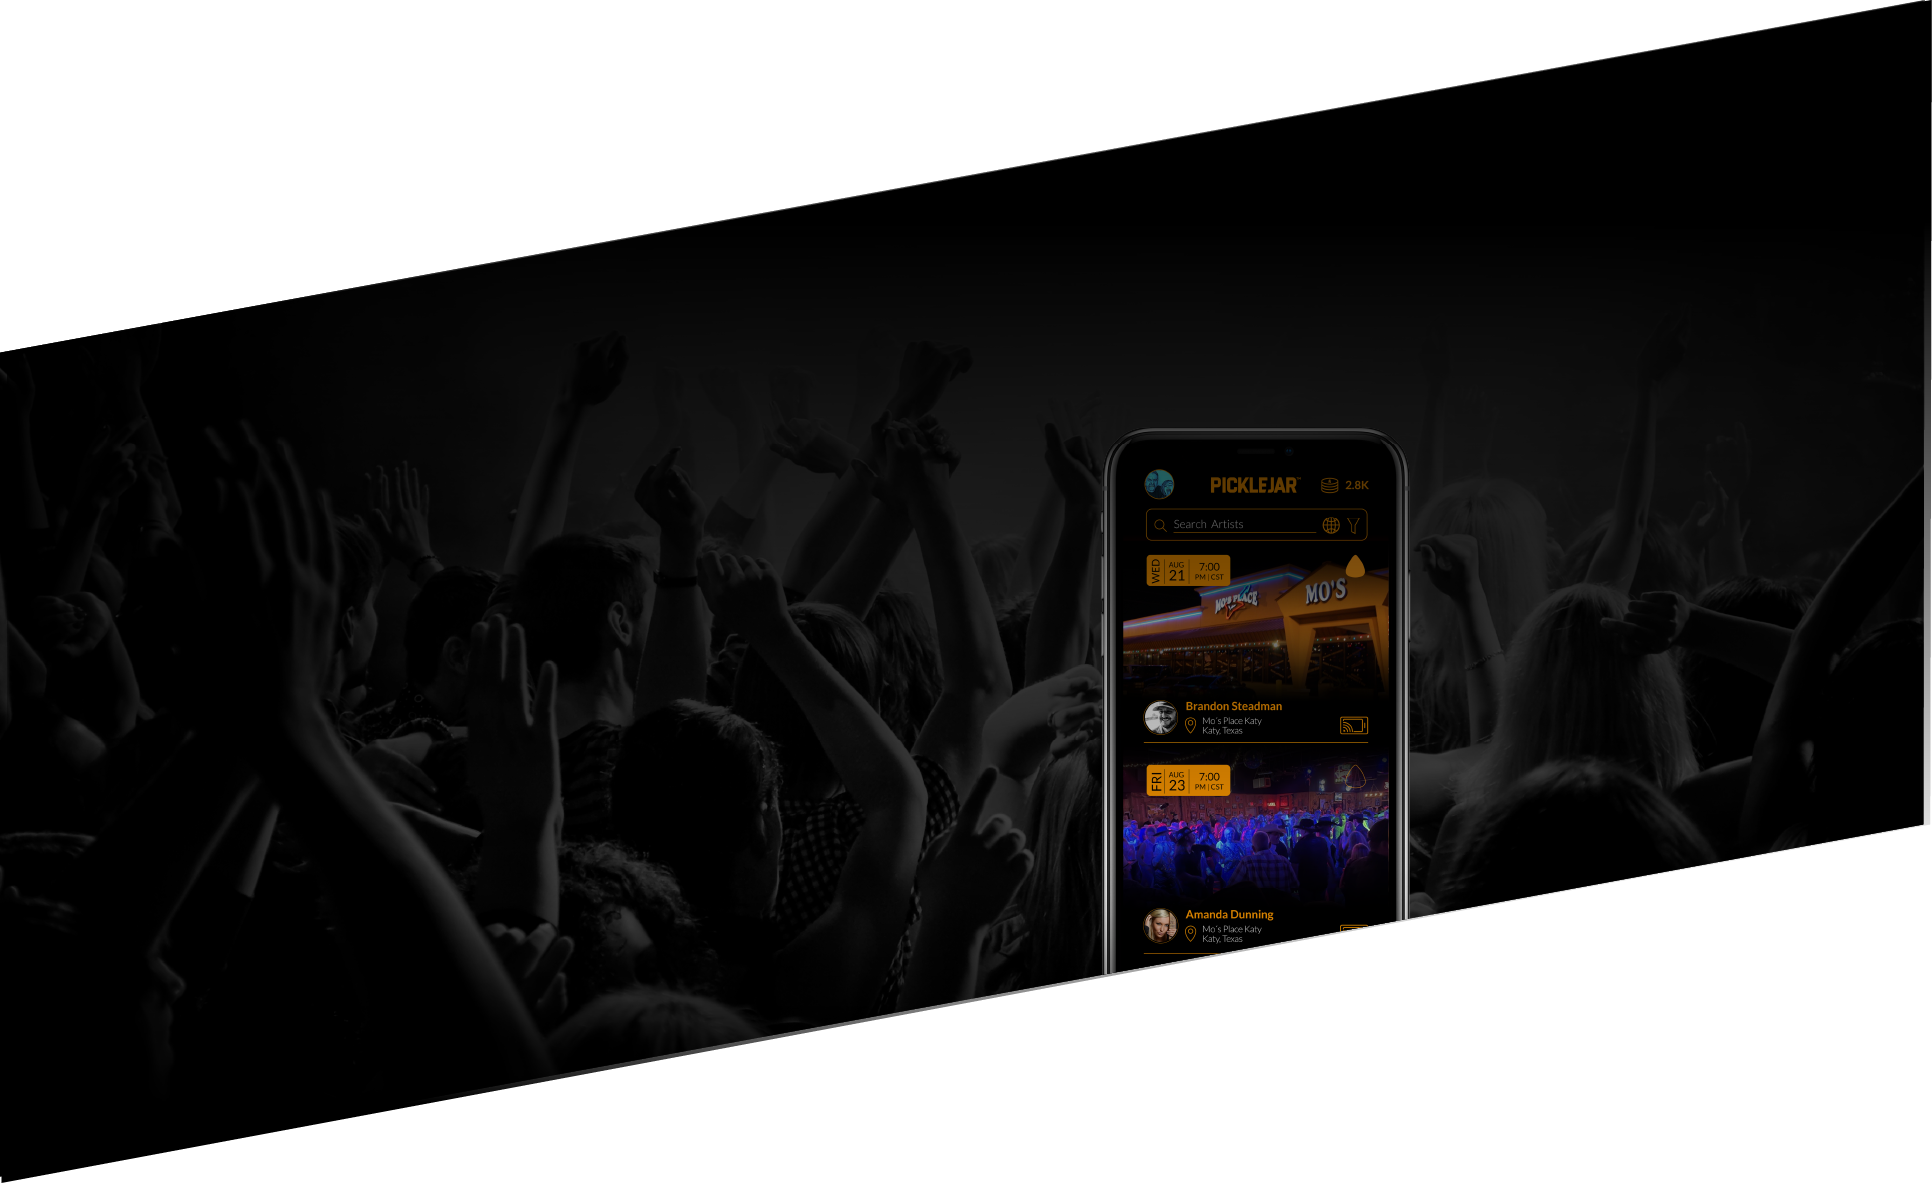
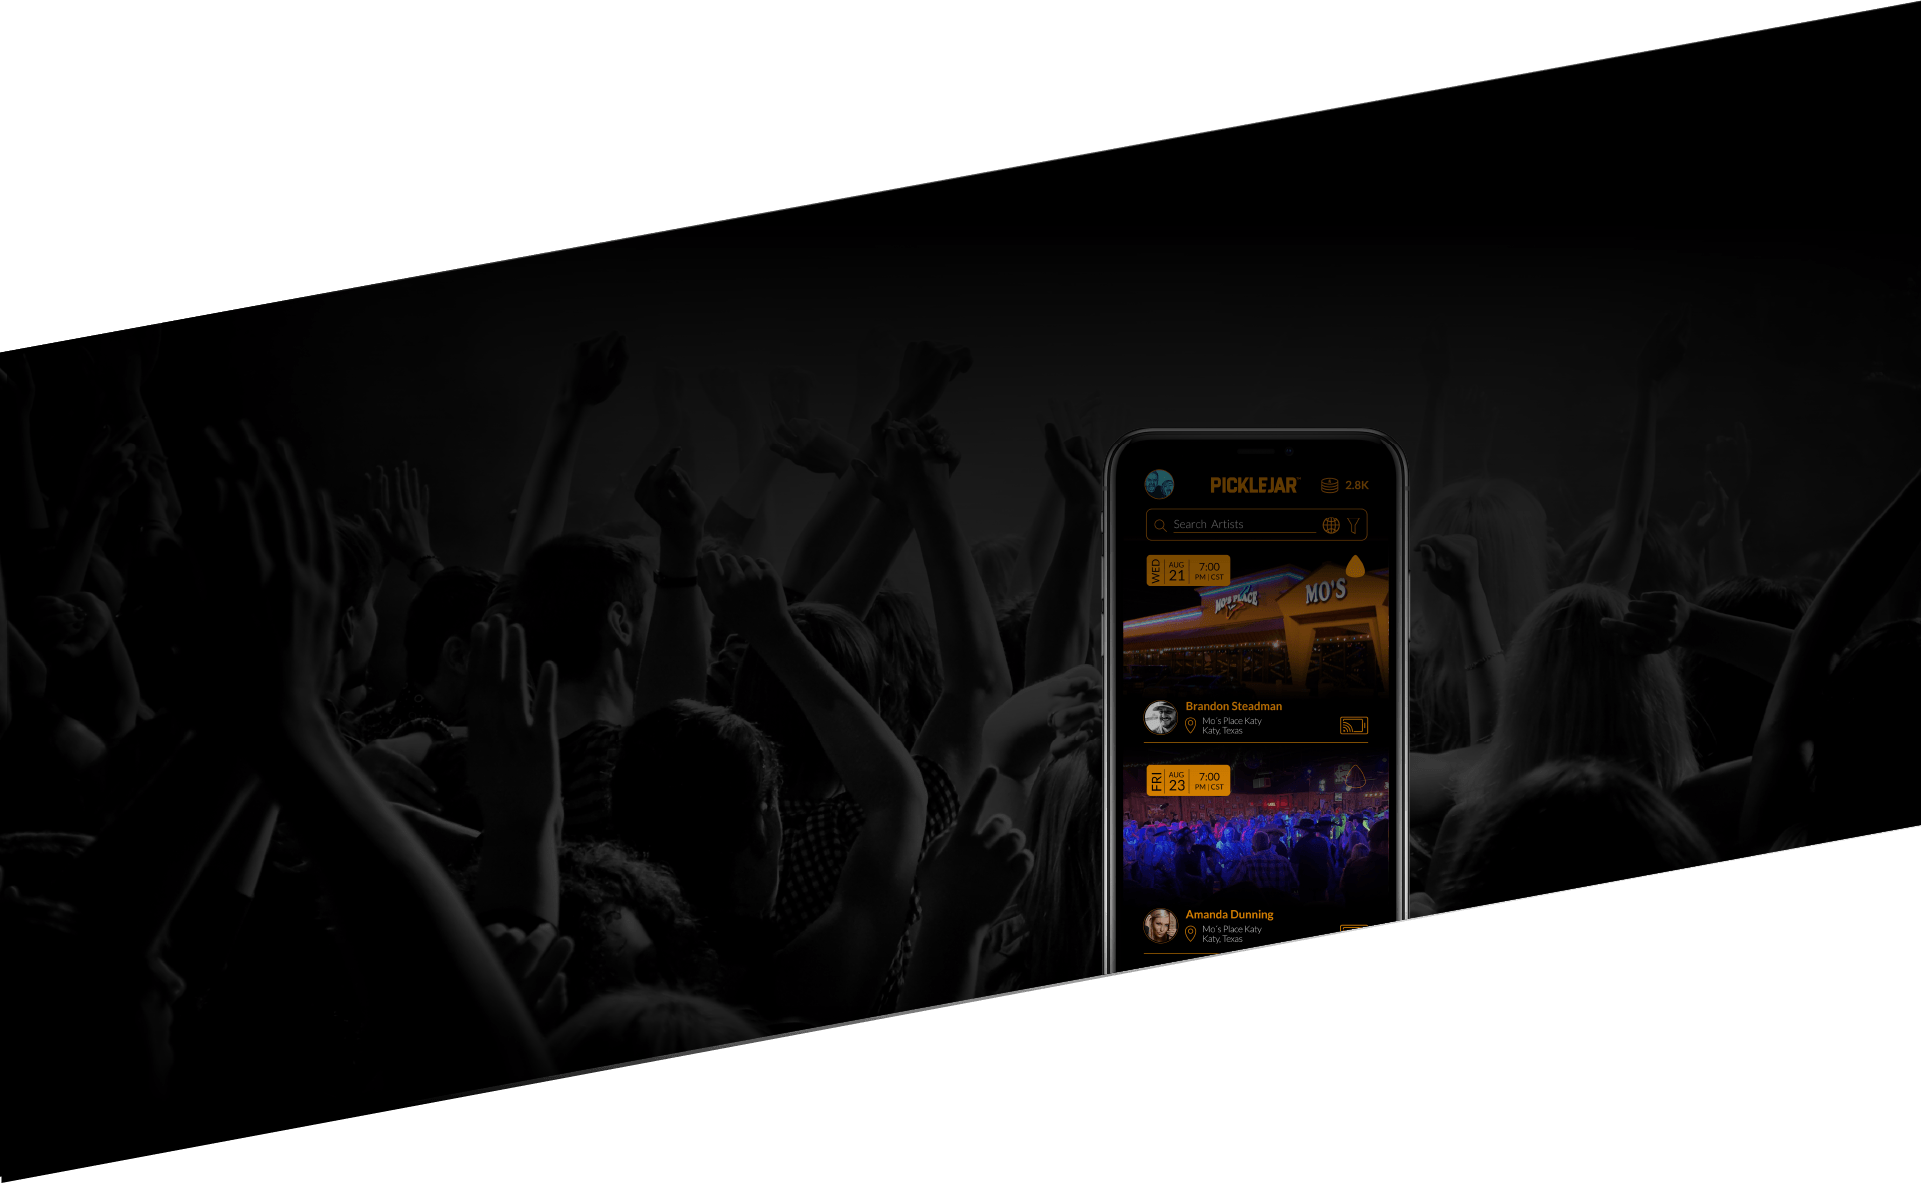
fix

diff --git a/public/index.html b/public/index.html
@@ -42,80 +42,11 @@
         <div class="app__background"></div>
         <div class="app__wrapper container">
             <svg xmlns="http://www.w3.org/2000/svg" viewBox="0 0 899.67 570.98" class="app__icon">
-                <defs>
-                    <style>
-                        .cls-1,
-                        .cls-10 {
-                            fill: #fff;
-                        }
-
-                        .cls-2 {
-                            fill: #f8a340;
-                        }
-
-                        .cls-3 {
-                            font-size: 53.72px;
-                            font-family: Flintstock-RegularOblique, Flintstock;
-                        }
-
-                        .cls-10,
-                        .cls-11,
-                        .cls-12,
-                        .cls-3,
-                        .cls-9 {
-                            font-style: oblique;
-                        }
-
-                        .cls-4 {
-                            letter-spacing: -0.02em;
-                        }
-
-                        .cls-5 {
-                            letter-spacing: -0.04em;
-                        }
-
-                        .cls-6 {
-                            letter-spacing: -0.02em;
-                        }
-
-                        .cls-7 {
-                            letter-spacing: 0em;
-                        }
-
-                        .cls-8 {
-                            letter-spacing: -0.01em;
-                        }
-
-                        .cls-10,
-                        .cls-11,
-                        .cls-9 {
-                            font-size: 264.27px;
-                        }
-
-                        .cls-10,
-                        .cls-11,
-                        .cls-12,
-                        .cls-9 {
-                            font-family: Flintstock-RoundOblique, Flintstock;
-                        }
-
-                        .cls-11 {
-                            fill: none;
-                            stroke: #000;
-                            stroke-miterlimit: 10;
-                            stroke-width: 3.52px;
-                        }
-
-                        .cls-12 {
-                            font-size: 135.92px;
-                        }
-                    </style>
-                </defs>
-                <path class="cls-1"
+                <path fill="#ffffff"
                     d="M411.14,0H76.6A76.83,76.83,0,0,0,0,76.6V229.47a76.83,76.83,0,0,0,76.6,76.6H197.29c6.92,18.46,14.58,52.1-6.24,80.17,0,0,96-17.35,137.73-80.17h82.36a76.82,76.82,0,0,0,76.59-76.6V76.6A76.82,76.82,0,0,0,411.14,0Z" />
-                <path class="cls-2"
+                <path class="cls-2" fill="#f8a340"
                     d="M381.75,86.85h424.5c51.38,0,93.42,42,93.42,93.42V377.06c0,51.38-42,93.42-93.42,93.42H652.38c-8.67,23.14-18.28,65.31,7.83,100.5,0,0-120.34-21.76-172.64-100.5H381.75c-51.38,0-93.42-42-93.42-93.42V180.27C288.33,128.89,330.37,86.85,381.75,86.85Z" />
-                <text class="cls-3" transform="translate(412.53 393.71)">
+                <text class="app__title" transform="translate(412.53 393.71)">
                     <tspan class="cls-4" x="13.43" y="0">f</tspan>
                     <tspan x="37.01" y="0">or eve</tspan>
                     <tspan class="cls-5" x="187" y="0">r</tspan>
@@ -126,10 +57,14 @@
                     <tspan x="386.62" y="0">t </tspan>
                     <tspan class="cls-5" x="0" y="52.11">y</tspan>
                     <tspan x="30.46" y="52.11">ou bring on! </tspan>
-                </text><text class="cls-9" transform="translate(337.49 339.89)">$25</text><text class="cls-10"
-                    transform="translate(323.43 328.91)">$25</text><text class="cls-11"
-                    transform="translate(317.06 322.65)">$25</text><text class="cls-12"
-                    transform="translate(60.19 167.17)">EARN</text>
+                </text>
+                <text class="app__text app__text--1" font-size="264.27px"
+                    transform="translate(337.49 339.89)">$25</text>
+                <text class="app__text app__text--2" font-size="264.27px" fill="#ffffff"
+                    transform="translate(323.43 328.91)">$25</text>
+                <text class="app__text app__text--3" font-size="264.27px"
+                    transform="translate(317.06 322.65)">$25</text>
+                <text class="app__text app__text--4" transform="translate(60.19 167.17)">EARN</text>
             </svg>
             <img src="./images/app/phone.png" alt="phone" class="app__image">
         </div>

diff --git a/public/scss/components/app.scss b/public/scss/components/app.scss
@@ -20,8 +20,7 @@
 
     &__background {
         width: 100%;
-        height: 1150px;
-        max-width: 1950px;
+        height: 1173px;
         position: absolute;
 
         background-image: url(../images/app/crowd-bg.png);
@@ -48,6 +47,26 @@
     &__icon {
         width: 66%;
         margin-top: -347px;
+    }
+
+    &__title {
+        font-family: $font-fs-o;
+        font-size: 53.72px;
+    }
+
+    &__text {
+        font-family: $font-fs-rd-o;
+    }
+
+    &__text--4 {
+        font-size: 135.92px;
+    }
+
+    &__text--3 {
+        fill: none;
+        stroke: #000;
+        stroke-miterlimit: 10;
+        stroke-width: 3.52px;
     }
 }
 

diff --git a/public/css/style.css b/public/css/style.css
@@ -328,8 +328,7 @@ input[type=number] {
 }
 .app__background {
   width: 100%;
-  height: 1150px;
-  max-width: 1950px;
+  height: 1173px;
   position: absolute;
   background-image: url(../images/app/crowd-bg.png);
   background-position: center;
@@ -357,6 +356,22 @@ input[type=number] {
 .app__icon {
   width: 66%;
   margin-top: -347px;
+}
+.app__title {
+  font-family: "Flintstock-Oblique";
+  font-size: 53.72px;
+}
+.app__text {
+  font-family: "Flintstock-Round-Oblique";
+}
+.app__text--4 {
+  font-size: 135.92px;
+}
+.app__text--3 {
+  fill: none;
+  stroke: #000;
+  stroke-miterlimit: 10;
+  stroke-width: 3.52px;
 }
 
 @media (max-width: 1479px) {
